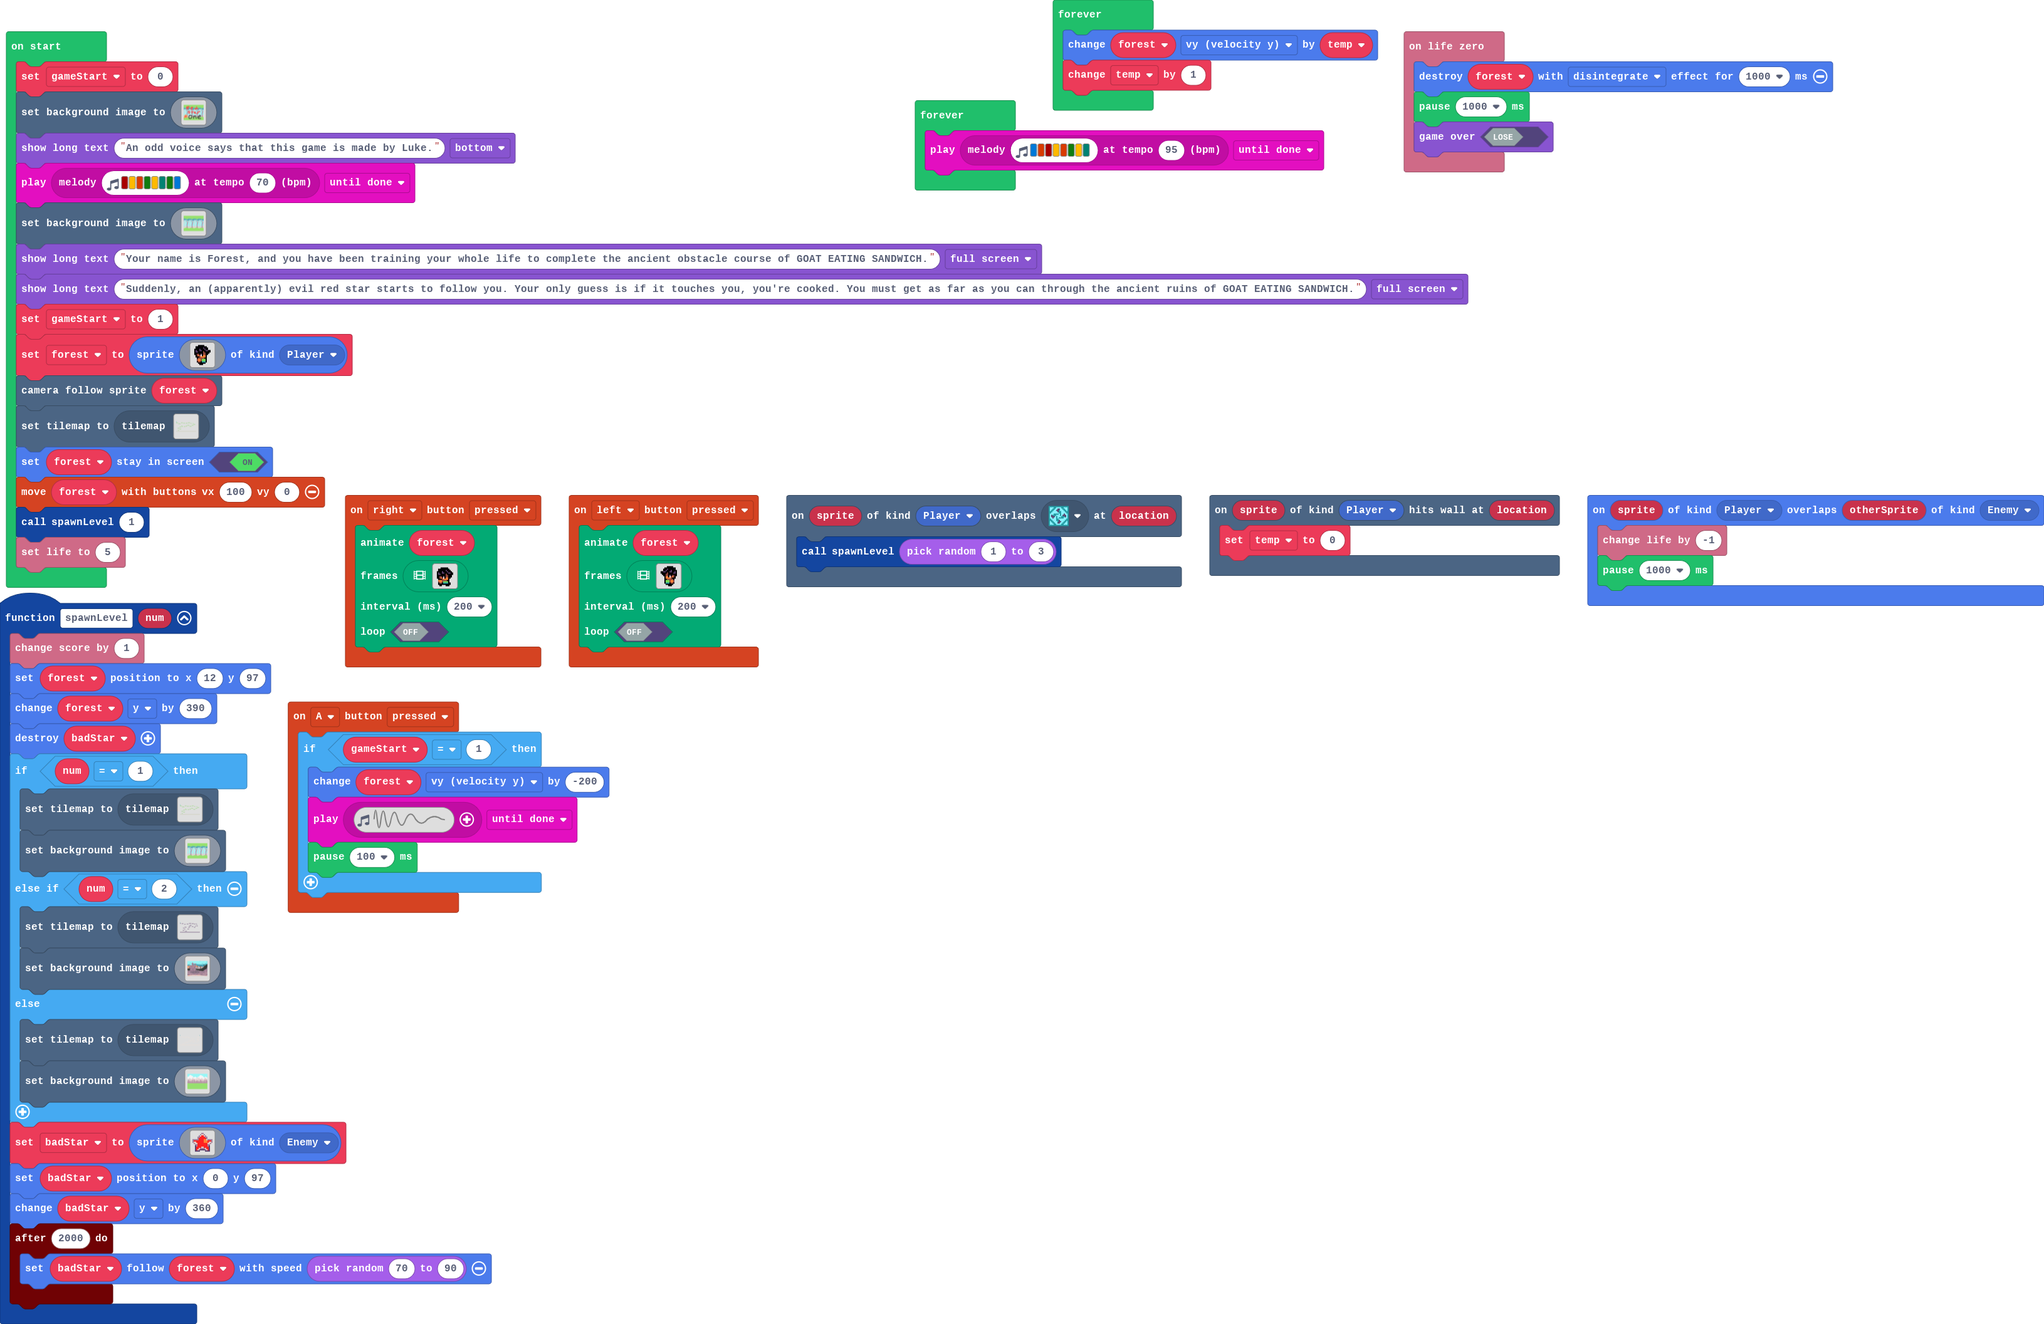
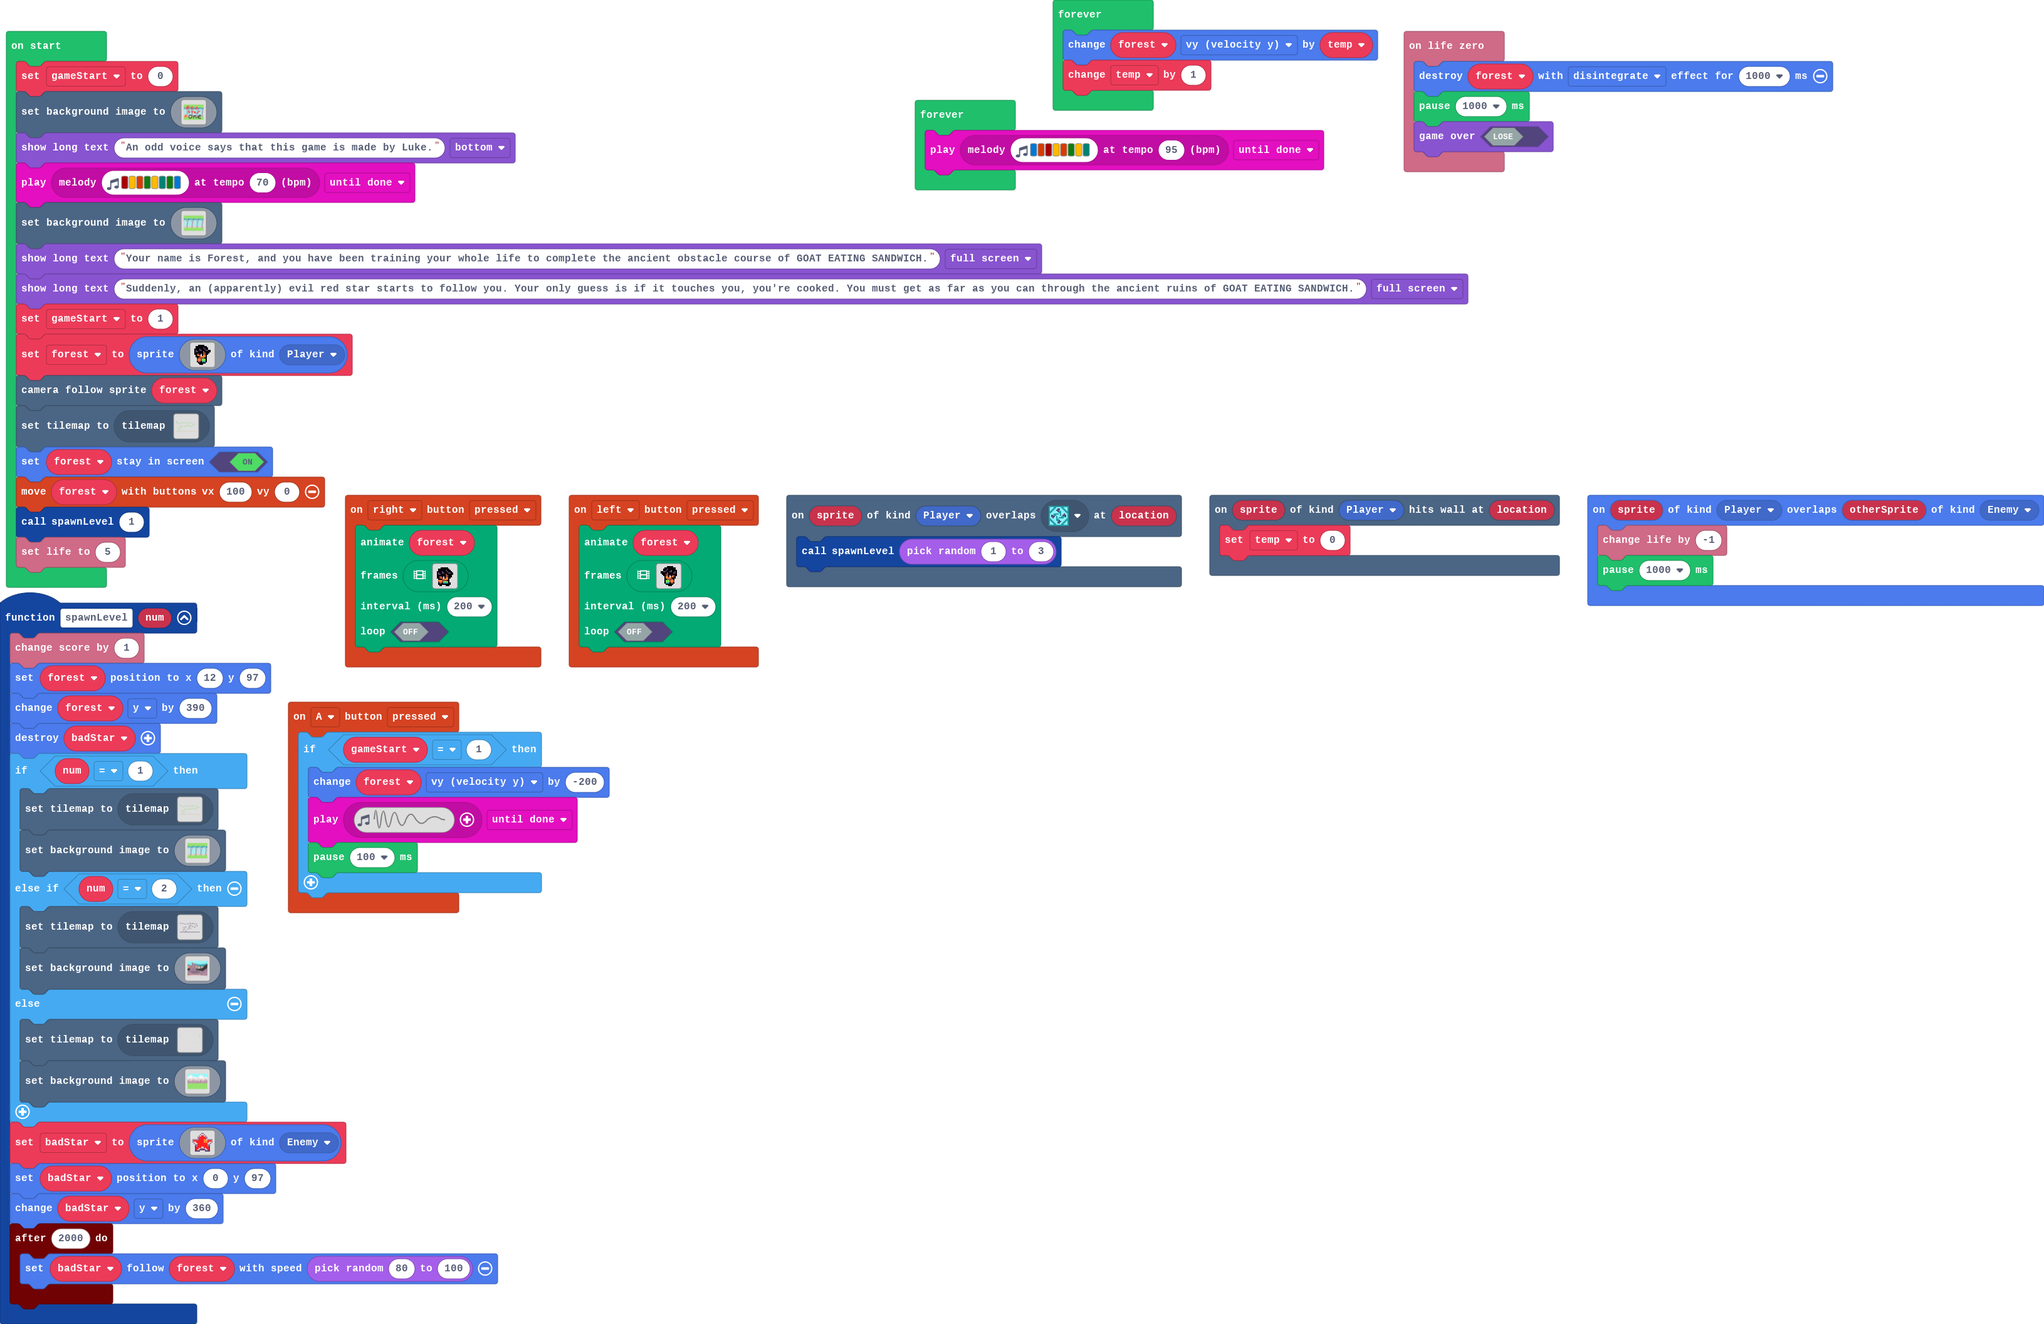
Update main.blocks, main.ts, tilemap.g.jres, tilemap.g.ts

diff --git a/tilemap.g.ts b/tilemap.g.ts
@@ -141,41 +141,6 @@ namespace myTiles {
 ................................................................
 2222222222222222222222222222222222222222222222222222222222222222
 `, [myTiles.transparency16,sprites.castle.tilePath2,sprites.dungeon.collectibleInsignia,sprites.castle.tileGrass2], TileScale.Sixteen);
-            case "two":
-            case "level6":return tiles.createTilemap(hex`400020000200000000000000000000000000000000000000000000000000000000000000000000000000000000000000000000000000000000000000000000000000000002000000000000000000000000000000000000000000000000000000000000000000000000000000000000000000000000000000000000000000000000000000020000000000000000000000000000000000000000000000000000000000000000000000000000000000000000000000000000000000000000000000000000000305040000000000000000000000000000000000000000000000000000030505050505040000000000000000000000000000000000000000000000000000000000000000000003050505040000000000000000000000000000000000000000000000000000000305050505040000000000000005000000000000000000000000000000000000000000000000000000000000000000000305050504000000000000000000000000000000000000030505040000000500000000000000000000000000000000000000000000000000030505040000000000000000000000000000000000000000000000000000000000000000000000050000000000000000000000000000000000000000000000000000000000000000000000000000000000000000000000000000000000000000000000000000000005000000000000000000000000000000000000000000000000000000000000000000000000000000000000000000000000000000000000000000000000000000000000000000000000000000000000000000000000000000000000000000000000000000000000000000030505050400000000000000000000000000000000000000000000000000000000000000000000000000000000000000000000000000000000000000000000000000000000000000000000000000000000000000000000000000000000000000000000000000000000000000000000000000000000000000000000000000000000000000000000000000000000000000000005000003050504000000000000000000000000000000000000000000000000000000000000000000000000030505050400000000000000000000000000000005000000000000000000000000000000000000000000000000000000000000000000000000000000000000000000000000000000000305050504000000000005000000000000000000000000000000000000000000000000000000000000000000000000000000000000000000000000000000000000000000000000000000000000000000000000000000000000000000000000000000000000000000000305050505040000000000000000000000000000000000000000000000000000000000000000000000000000000000000000000000000000000000000000000000000000000000000000000003050505040000000000000000000000000003050504000000000000000000000000000000000000000000000000000000000000000000000000000000000000000000000000000000000000000000000000000000000000000000000000000000000000000000000000000000000003050504000000000000000000000000000000000000000000000000000000000000000000000000000000000000000000000000000000000000000000000000000000000000000000000000000000000000000000000000000000000000000000000000000000000000000000000000000000000000000000000000000000000000000000000000000000000000000000000000000000000000000000000000000000000000000000000000000000000000000000000000000000000000000000000000030504000000000000000305050504000000000000000000000000000000000000000000000000000000000000000000000000000000000000000000000000000000000000000000000000000000000000000000000000000000000000000000000000000000000000000000000000000000000000000000000000000000000000000000000000000000000000000000000000000000000000000000000000000000000000000000000000000000000000000000000000000000000000000000000000000000000000000000000000000000000000000000000000000000000000000000000000000000000000000000000000000000000000000003050505040000000000000000000000000000000000000000000000000000000000000000000000000000000000000000000000000000000000000000000000000000000000000000000000000000000000000000000000000000000000000000000000000000000000000000000000000000000000000000000000000000000000000000000000000000000000000000000000000000000000000000000000000000000000000000000000000000000000000000000000000000000000000000000000000000000305050504000000000000000000000000000000000000000000000000000000000000000000000000000000000000000000000000000000000000000000000000000000000000000000000000000000000000000000000000000000000000000000000000000000000000000000000000000000000000000000000000000000000000000000000000000000000000000000000000000000000000000000000000000000000000000000000000000001010101010101010101010101010101010101010101010101010101010101010101010101010101010101010101010101010101010101010101010101010101`, img`
-................................................................
-................................................................
-................................................................
-222..........................2222222............................
-......22222...........................222222.......2............
-......................22222..................2222...2...........
-..............2222...................................2..........
-......................................................2.........
-................................................................
-................................22222...........................
-................................................................
-..................................................2..2222.......
-.............................22222...............2..............
-......................................22222.....2...............
-................................................................
-...............222222...........................................
-...........................22222.............2222...............
-................................................................
-..........2222..................................................
-................................................................
-................................................................
-..............222.......22222...................................
-................................................................
-................................................................
-................................................................
-.........22222..................................................
-................................................................
-................................................................
-.................22222..........................................
-................................................................
-................................................................
-2222222222222222222222222222222222222222222222222222222222222222
-`, [myTiles.transparency16,sprites.dungeon.darkGroundNorth,sprites.dungeon.collectibleInsignia,myTiles.tile1,myTiles.tile2,myTiles.tile3], TileScale.Sixteen);
             case "three":
             case "level8":return tiles.createTilemap(hex`400020000200000000000000000000000000000000000000000000000000000000000000000000000000000000000000000000000000000000000000000000000000000202000000000000000000000000000000000000000000000000000000000000000000000000000000000000000000000000000000000000000000000000000002020000000000000000000000000000000000000000000000000000000000000000000000000000000000000000000000000000000000000000000000000000020101010000000000000000000000000000000000000000000000000000000000000000000000000000000000000000000000000000000000000000000101010100000000000000000000000000000000000000000000000000000000000000000000000000000000000000000000000000000000000000000000000000000000000000000001010101000000000000000000000000010101010000000000000000000000000000000000000000000000000000000000000101010100000000000000000000000000000001010101000000000000000000000000000000000000000000000000000000000000000000000000000000000000000000000000000000000000000000000000000000000000010101010000000000000001010000000000000000000000000000000000000000000000000000000000010101010000000000000000000000000000000000000000000000000000000000010101010100000000000000000000000000000000000000000000000000000000000000000000000000000000000000000000000000000000000000000000000000000000000000000101010100000000000000000000000000000000000000000000000000000000000000000000000000000000000000000000000000000000000000000000000000000000000000010100000000000000000000010101000000000000000000000000000000000000000000000000000000000000000000000000000000000000000000000000000000000000000000000000000000000000000000000000000000000000000000000000000000000000000000000000000000000000000000000000000000000000000000000000000000000000000000000000000000000000000000000000000000000000000000000000000000000000000000000000000000000000000000000000000000000000000001010101010100000000000000000000000000000000000000000000000000000000000000000000000000000000000000010101010000000000000000000000000000000000000000000000000000000000000000000000000000000000000000000000000000000000010100000000000000000000000000000000000000000000000000000000000000000000000000000000000000000000000000000000000000000000000000000001000000000000000000000000000000000000000000000000010100000000000000000000000000000000000000000000000000000000000000000000000000010000000101010100000000000000000000000000000000000000000000000000000000000000000000000000000000000000000000000000000001010000000000000000000000000000000101010100000000000000010101010000000000000000000000000000000000000000000000000000000000000000010000000000000000000000000000000000000000000000000000000000000000000000000000000000000000000000000000000000000000000000000000000000000001010101000000000000000000000000000000000000000000000000000000000000000000000000000000000000000000000000000000000101010000000000000000000000000000000000000000000000000001010101000000000000000000000000000000000000000000000000000000000000000000000000000000000000000000000000000101010101000000000000000000000000000000000000000000000000000000000000000000000000010101010100000000000000000000000000000000000000000000000000000000000000000000000000000000000000000000000000000000000000000000000000000000000000000000000000000000000000000000000000000000000000000000000000000000000000000000000000000000000000000000010101010000000000000000000000000000000000000000000000000000000000000000000000000000000000000000000000000000000000000000000000000000000000000000000000000000000000000000000000000000000000000000000000000000000000000000000000000000000000000000000000000000000000000000000000000000000000000000000000000000000000000000000000000000000000000000000000000000000000000000000000000000000101010100000000000000000000000000000000000000000000000000000000000000000000000000000000000000000000000000000000000000000000000000000000000000000000000000000000000000000000000000000000000000000000000000000000000000000000000000000000000000000000000000000000000000000000000000000000000000000000000000000000000000000000000000000000000000000000000000000000000000000000000001010101010101010101010101010101010101010101010101010101010101010101010101010101010101010101010101010101010101010101010101010101`, img`
 ................................................................
@@ -211,6 +176,41 @@ namespace myTiles {
 ................................................................
 2222222222222222222222222222222222222222222222222222222222222222
 `, [myTiles.transparency16,sprites.builtin.brick,sprites.dungeon.collectibleInsignia], TileScale.Sixteen);
+            case "two":
+            case "level6":return tiles.createTilemap(hex`400020000200000000000000000000000000000000000000000000000000000000000000000000000000000000000000000000000000000000000000000000000000000002000000000000000000000000000000000000000000000000000000000000000000000000000000000000000000000000000000000000000000000000000000020000000000000000000000000000000000000000000000000000000000000000000000000000000000000000000000000000000000000000000000000000000305040000000000000000000000000000000000000000000000000000030505050505040000000000000000000000000000000000000000000000000000000000000000000003050505040000000000000000000000000000000000000000000000000000000305050505040000000000000005000000000000000000000000000000000000000000000000000000000000000000000305050504000000000000000000000000000000000000030505040000000500000000000000000000000000000000000000000000000000030505040000000000000000000000000000000000000000000000000000000000000000000000050000000000000000000000000000000000000000000000000000000000000000000000000000000000000000000000000000000000000000000000000000000005000000000000000000000000000000000000000000000000000000000000000000000000000000000000000000000000000000000000000000000000000000000000000000000000000000000000000000000000000000000000000000000000000000000000000000030505050400000000000000000000000000000000000000000000000000000000000000000000000000000000000000000000000000000000000000000000000000000000000000000000000000000000000000000000000000000000000000000000000000000000000000000000000000000000000000000000000000000000000000000000000000000000000000000005000003050504000000000000000000000000000000000000000000000000000000000000000000000000030505050400000000000000000000000000000005000000000000000000000000000000000000000000000000000000000000000000000000000000000000000000000000000000000305050504000000000005000000000000000000000000000000000000000000000000000000000000000000000000000000000000000000000000000000000000000000000000000000000000000000000000000000000000000000000000000000000000000000000305050505040000000000000000000000000000000000000000000000000000000000000000000000000000000000000000000000000000000000000000000000000000000000000000000003050505040000000000000000000000000003050504000000000000000000000000000000000000000000000000000000000000000000000000000000000000000000000000000000000000000000000000000000000000000000000000000000000000000000000000000000000003050504000000000000000000000000000000000000000000000000000000000000000000000000000000000000000000000000000000000000000000000000000000000000000000000000000000000000000000000305050400000000000000000000000000000000000000000000000000000000000000000000000000000000000000000000000000000000000000000000000000000000000000000000000000000000000000000000000000000000000000000000000000000000000000000000030504000000000000000305050504000000000000000000000000000000000000000000000000000000000000000000000000000000000000000000000000000000000000000000000000000000000000000000000000000000000000000000000000000000000000000000000000000000000000000000000000000000000000000000000000000000000000000000000000000000000000000000000000000000000000000000000000000000000000000000000000000000000000000000000000000000000000000000000000000000000000000000000000000000000000000000000000000000000000000000000000000000000000000003050505040000000000000000000000000000000000000000000000000000000000000000000000000000000000000000000000000000000000000000000000000000000000000000000000000000000000000000000000000000000000000000000000000000000000000000000000000000000000000000000000000000000000000000000000000000000000000000000000000000000000000000000000000000000000000000000000000000000000000000000000000000000000000000000000000000000305050504000000000000000000000000000000000000000000000000000000000000000000000000000000000000000000000000000000000000000000000000000000000000000000000000000000000000000000000000000000000000000000000000000000000000000000000000000000000000000000000000000000000000000000000000000000000000000000000000000000000000000000000000000000000000000000000000000001010101010101010101010101010101010101010101010101010101010101010101010101010101010101010101010101010101010101010101010101010101`, img`
+................................................................
+................................................................
+................................................................
+222..........................2222222............................
+......22222...........................222222.......2............
+......................22222..................2222...2...........
+..............2222...................................2..........
+......................................................2.........
+................................................................
+................................22222...........................
+................................................................
+..................................................2..2222.......
+.............................22222...............2..............
+......................................22222.....2...............
+................................................................
+...............222222...........................................
+...........................22222.............2222...............
+................................................................
+..........2222..................................................
+................................2222............................
+................................................................
+..............222.......22222...................................
+................................................................
+................................................................
+................................................................
+.........22222..................................................
+................................................................
+................................................................
+.................22222..........................................
+................................................................
+................................................................
+2222222222222222222222222222222222222222222222222222222222222222
+`, [myTiles.transparency16,sprites.dungeon.darkGroundNorth,sprites.dungeon.collectibleInsignia,myTiles.tile1,myTiles.tile2,myTiles.tile3], TileScale.Sixteen);
         }
         return null;
     })

diff --git a/main.ts b/main.ts
@@ -17,7 +17,7 @@ function spawnLevel (num: number) {
     badStar.setPosition(0, 97)
     badStar.y += 360
     timer.after(2000, function () {
-        badStar.follow(forest, randint(70, 90))
+        badStar.follow(forest, randint(80, 100))
     })
 }
 scene.onHitWall(SpriteKind.Player, function (sprite, location) {
